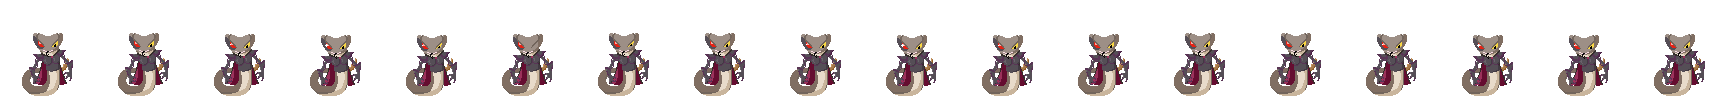
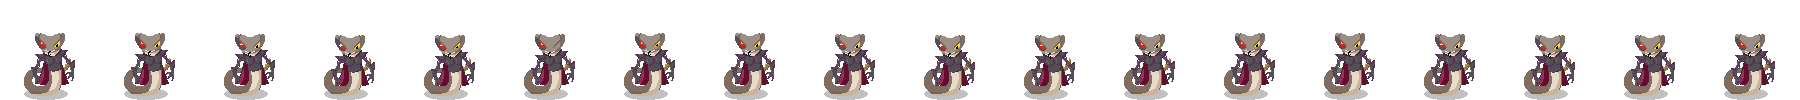
Updates

diff --git a/project-solutions/level-6/init.py b/project-solutions/level-6/init.py
@@ -602,48 +602,50 @@ class Data:
     player_text = TextObject(BLACK, 24, "Player: ")
     player_hitbox = Object(HITBOX_IMAGE)
     #boss data
-    boss_attack_sheet = SpriteSheet("assets/creeper/CreeperAttack.png", (96, 96))
+    boss_attack_sheet = SpriteSheet("assets/creeper/CreeperAttack.png", (100, 100))
     boss_attack = Animator(boss_attack_sheet, 2)
-    boss_idle_sheet = SpriteSheet("assets/creeper/CreeperIdle.png", (96, 96))
+    boss_idle_sheet = SpriteSheet("assets/creeper/CreeperIdle.png", (100, 100))
     boss_idle = Animator(boss_idle_sheet, 2.5)
-    boss_pain_sheet = SpriteSheet("assets/creeper/CreeperPain.png", (96, 96))
+    boss_pain_sheet = SpriteSheet("assets/creeper/CreeperPain.png", (100, 100))
     boss_pain = Animator(boss_pain_sheet, 0.5)
     boss = Object(boss_idle_sheet.image_at(0))
     boss_start_position = pygame.math.Vector2(0, 0)
     boss_health = 300
+    boss_attack_event = pygame.USEREVENT
+    is_boss_attacking = False
     #miscellaneous data
     wall_height = 45
     projectile_sheet = SpriteSheet("assets/PlasmaBall.png", (32, 32))
-    projectile_anim = Animator(projectile_sheet, 0.5)
+    projectile_anim = Animator(projectile_sheet, 6)
     projectile = Object(projectile_sheet.image_at(0))
     numberOfprojectiles = 0
     projectiles = []
     projectile_owner = []
-    rotation_speed = 180
     state = 0
     last_state = 2
     index = 0
     game_over_sheet = SpriteSheet("assets/GameOverOverlay.png", (800, 600))
     game_over = Animator(game_over_sheet, 0.5)
     you_win_sheet = SpriteSheet("assets/YouWinOverlay.png", (800, 600))
-    you_win = Animator(you_win_sheet, 0.5)
+    you_win = Animator(you_win_sheet, 0.25)
     ending_overlay = Object(game_over_sheet.image_at(0))
     #ending_overlay_event = pygame.USEREVENT
     restart_button = Object(Image("assets/Projectile.png"))
-    boss_attack_event = pygame.USEREVENT
-    is_boss_attacking = False
-
+    
 MY = Data()
 
 def initialize(window):
     """Initializes the game play class."""
     MY.player.location = (window.x / 2, window.y / 4)
     MY.boss.location = window / 2
-    pygame.time.set_timer(MY.boss_attack_event, 20)
+    pygame.time.set_timer(MY.boss_attack_event, 1000)
     #pygame.time.set_timer(MY.ending_overlay_event, 0)
     count = 0
     while count < 20:
-        MY.projectiles.append(Object(PROJECTILE_IMAGE))
+        proj = Object(PROJECTILE_IMAGE)
+        proj.location = (window.x / 2, window.y/ 2 - 35)
+        proj.sprite = MY.projectile_anim
+        MY.projectiles.append(proj)
         MY.projectile_owner.append(BOSS)
         count += 1
 
@@ -752,7 +754,7 @@ def fire_projectile():
         count += 1
         if projectile.active:
             if MY.projectile_owner[count] == BOSS and projectile.collides_with(MY.player):
-                MY.player_health -= 1
+                MY.player_health -= 0.1
                 projectile.active = False
                 continue
 
@@ -761,15 +763,9 @@ def boss_explosion_update():
     num_projectiles = 15
     count = 0
     while count < num_projectiles:
+        MY.projectiles[count].active = True
         fire_projectile()
         count += 1
-
-def boss_rotation_update(delta_time):
-    """laser attack."""
-    MY.boss.add_rotation(MY.rotation_speed * delta_time)
-    fire_projectile()
-    if MY.boss.rotation >= 355:
-        MY.boss.rotation = 0
 
 def boss_attack():
     """if rand.randint(0, 1) == 0:
@@ -785,6 +781,8 @@ def update_boss(delta_time):
     elif MY.is_boss_attacking:
         MY.boss.sprite = MY.boss_attack
         boss_attack()
+        for p in MY.projectiles:
+            p.update(delta_time)
     else:
         MY.boss.sprite = MY.boss_idle
     MY.boss.update(delta_time)
@@ -794,6 +792,7 @@ def check_win():
     if MY.boss_health < 1:
         Manager.current = 1
         MY.state = 1
+        MY.ending_overlay = Object(MY.you_win_sheet.image_at(0))
     elif MY.player_health < 1:
         Manager.current = 1
         MY.state = 2
@@ -814,11 +813,10 @@ class GameOver:
     def update(delta_time):
         """Updates the restart menu state."""
         if MY.boss_health <= 0:
-            MY.ending_overlay.sprite = MY.you_win
-        elif MY.player_health <= 0:
-            MY.ending_overlay.sprite = MY.game_over
+            you_win_anim()
+        else:
+            game_over_anim()
         #pygame.time.set_timer(MY.ending_overlay_event, 0)
-        
         check_ending_events()
 
     def cleanup():
@@ -829,3 +827,12 @@ class GameOver:
         """Draws the restart menu state."""
         MY.ending_overlay.draw(screen)
         MY.restart_button.draw(screen)
+
+def you_win_anim():
+    MY.ending_overlay.sprite = MY.you_win
+
+def game_over_anim():
+    MY.ending_overlay.sprite = MY.game_over
+    for _ in range(1000):
+        MY.ending_overlay.sprite.update(30)
+    MY.ending_overlay.sprite.pause()

diff --git a/project-solutions/level-6/BossBattle.py b/project-solutions/level-6/BossBattle.py
@@ -13,10 +13,10 @@ def update(delta_time):
     if MY.player.location.y > WINDOW_LENGTH - (MY.wall_height + 20):
         MY.player.location.y = WINDOW_LENGTH - (MY.wall_height + 20)
 
-    if MY.player.collides_with(MY.boss):
+    '''if MY.player.collides_with(MY.boss):
         player_pain_anim()
         MY.player_health -= 1
-        MY.player_hitbox.active = False
+        MY.player_hitbox.active = False'''
 
     if MY.player_dir == UP:
         MY.player_hitbox.location = pygame.math.Vector2(
